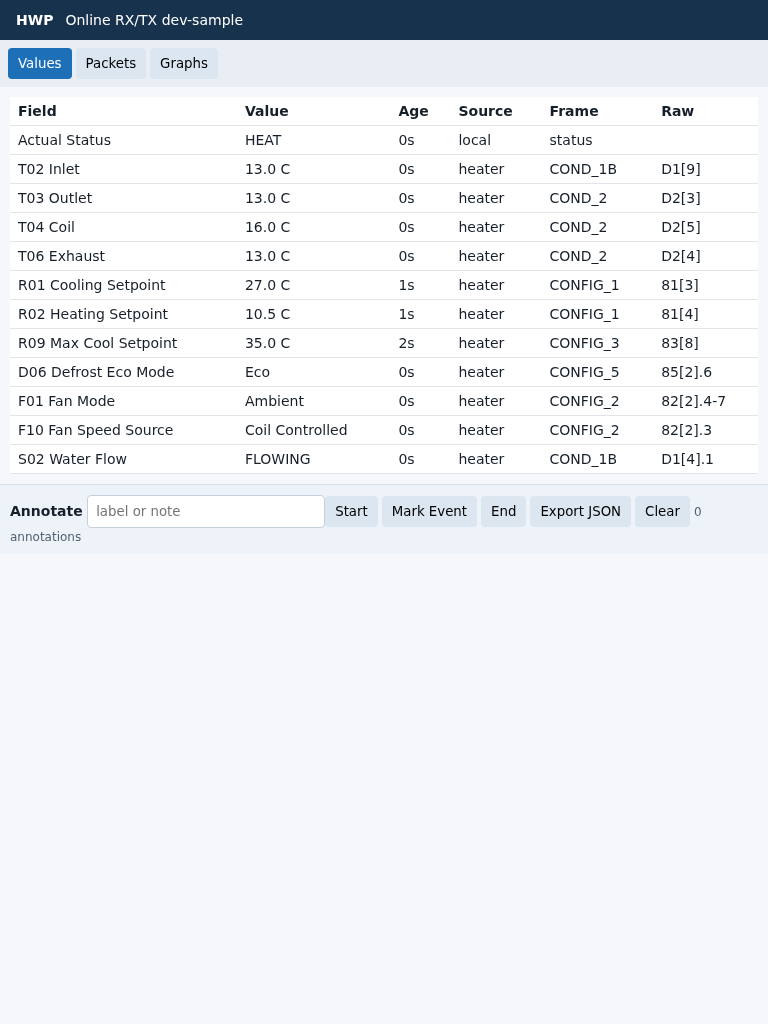
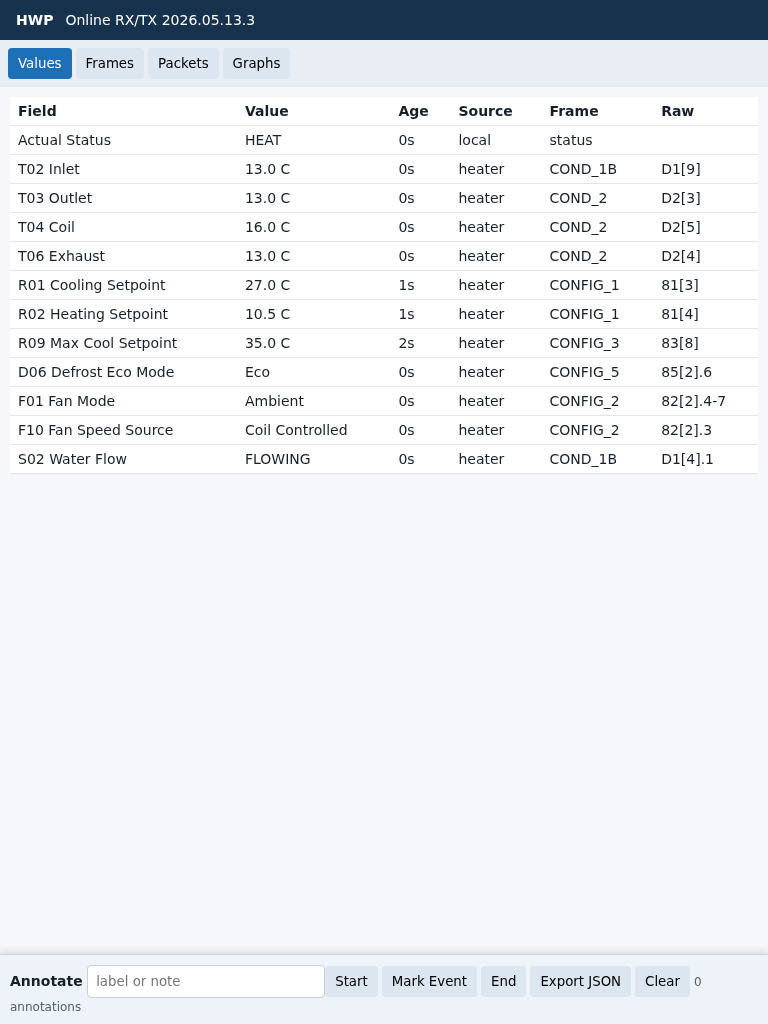
Keep HWP web frame snapshots on device

diff --git a/components/hwp/hwp_web_dashboard.cpp b/components/hwp/hwp_web_dashboard.cpp
@@ -39,22 +39,24 @@ namespace {
 const char HWP_WEB_INDEX[] =
     "<!doctype html><html><head><meta charset=utf-8><meta name=viewport "
     "content='width=device-width,initial-scale=1'><title>HWP</title><style>"
-    "body{margin:0;font:14px system-ui;background:#f5f7fa;color:#17202a}"
+    "body{margin:0 0 76px;font:14px system-ui;background:#f5f7fa;color:#17202a}"
     "header{padding:12px 16px;background:#17324d;color:white;display:flex;gap:12px;align-items:center}"
     "button{border:0;background:#dce6f1;padding:8px 10px;margin:0 4px 0 0;border-radius:4px}"
     "input{padding:8px;border:1px solid #c5d0dc;border-radius:4px;min-width:220px}"
     "button.active{background:#1d6fb8;color:white}.view{display:none;padding:10px}.view.active{display:block}"
     "table{border-collapse:collapse;width:100%;background:white}th,td{padding:6px 8px;border-bottom:1px solid #e1e5ea;text-align:left}"
     "tr.changed,span.changed{background:#fff2a8}.bad{color:#a40000;font-weight:700}.packet{font-family:ui-monospace,monospace;margin:6px 0;padding:8px;background:white;border-left:4px solid #8aa4bd;overflow:auto}"
+    ".annotate{position:fixed;left:0;right:0;bottom:0;z-index:20;padding:10px;background:#edf3f8;border-top:1px solid #c6d4e1;box-shadow:0 -2px 8px #0002}"
     ".meta{font-size:12px;color:#52616f}canvas{background:white;width:100%;height:220px;border:1px solid #d8dee6;margin:8px 0}"
     "</style></head><body><header><strong>HWP</strong><span id=meta></span></header>"
-    "<nav style='padding:8px;background:#e9eef4'><button data-tab=values class=active>Values</button><button data-tab=packets>Packets</button><button data-tab=graphs>Graphs</button></nav>"
+    "<nav style='padding:8px;background:#e9eef4'><button data-tab=values class=active>Values</button><button data-tab=frames>Frames</button><button data-tab=packets>Packets</button><button data-tab=graphs>Graphs</button></nav>"
     "<section id=values class='view active'><table><thead><tr><th>Field</th><th>Value</th><th>Age</th><th>Source</th><th>Frame</th><th>Raw</th></tr></thead><tbody id=valueRows></tbody></table></section>"
+    "<section id=frames class=view><div class=meta>Latest packet seen for each frame/source/length, including unknown frames.</div><div id=frameRows></div></section>"
     "<section id=packets class=view><div id=packetRows></div></section>"
     "<section id=graphs class=view><canvas id=g1 width=900 height=220></canvas><canvas id=g2 width=900 height=220></canvas><canvas id=g3 width=900 height=220></canvas></section>"
-    "<section style='padding:10px;background:#edf3f8;border-top:1px solid #d8dee6'><strong>Annotate</strong> <input id=annNote placeholder='label or note'><button id=annStart>Start</button><button id=annEvent>Mark Event</button><button id=annEnd>End</button><button id=annExport>Export JSON</button><button id=annClear>Clear</button><span id=annCount class=meta></span></section>"
+    "<section class=annotate><strong>Annotate</strong> <input id=annNote placeholder='label or note'><button id=annStart>Start</button><button id=annEvent>Mark Event</button><button id=annEnd>End</button><button id=annExport>Export JSON</button><button id=annClear>Clear</button><span id=annCount class=meta></span></section>"
     "<script>"
-    "const ANN_KEY='hwp.web.annotations.v1';let state={fields:[],packets:[],graphs:{},meta:{}};let changed={};let tab='values';"
+    "const ANN_KEY='hwp.web.annotations.v1';let state={fields:[],frames:[],packets:[],graphs:{},meta:{}};let changed={};let tab='values';"
     "function anns(){try{return JSON.parse(localStorage.getItem(ANN_KEY)||'[]')}catch(e){return[]}}"
     "function saveAnns(a){localStorage.setItem(ANN_KEY,JSON.stringify(a));annCount.textContent=a.length+' annotations'}"
     "function latestPacket(){return state.packets.length?state.packets[state.packets.length-1]:null}"
@@ -64,7 +66,8 @@ const char HWP_WEB_INDEX[] =
     "annStart.onclick=()=>addAnn('start');annEvent.onclick=()=>addAnn('event');annEnd.onclick=()=>addAnn('end');annClear.onclick=()=>{if(confirm('Clear local HWP annotations?'))saveAnns([])};"
     "annExport.onclick=()=>{let data=JSON.stringify({schema:'hwp-web-annotations-v1',exported_at:new Date().toISOString(),annotations:anns()},null,2);let u=URL.createObjectURL(new Blob([data],{type:'application/json'}));let a=document.createElement('a');a.href=u;a.download='hwp-web-annotations.json';a.click();URL.revokeObjectURL(u)};"
     "function age(ms){if(!ms)return'';let base=state.meta.uptime_ms||0;let s=Math.max(0,Math.floor((base-ms)/1000));return s<60?s+'s':Math.floor(s/60)+'m '+String(s%60).padStart(2,'0')+'s'}"
-    "function render(){document.getElementById('meta').textContent=`${state.meta.status||''} ${state.meta.bus_mode||''} ${state.meta.revision||''}`;let now=Date.now();valueRows.innerHTML=state.fields.map(f=>`<tr class='${changed[f.id]>now?'changed':''}'><td>${f.label}</td><td>${f.value} ${f.unit||''}</td><td>${age(f.seen_ms)}</td><td>${f.source}</td><td>${f.frame}</td><td>${f.raw}</td></tr>`).join('');packetRows.innerHTML=state.packets.slice().reverse().map(p=>`<div class=packet><div class=meta>${p.kind} ${p.frame} ${p.label} ${p.source} ${p.checksum_valid?'ok':'<span class=bad>bad checksum</span>'}</div>[${p.bytes.map((b,i)=>`<span class='${p.changed_bytes[i]?'changed':''}'>${b.toString(16).padStart(2,'0').toUpperCase()}</span>`).join(' ')}]</div>`).join('');drawGraphs()}"
+    "function packetHtml(p){return`<div class=packet><div class=meta>#${p.sequence} ${age(p.seen_ms)} ${p.kind} ${p.frame} ${p.label} ${p.source} ${p.length}b ${p.checksum_valid?'ok':'<span class=bad>bad checksum</span>'}</div>[${p.bytes.map((b,i)=>`<span class='${p.changed_bytes[i]?'changed':''}'>${b.toString(16).padStart(2,'0').toUpperCase()}</span>`).join(' ')}]</div>`}"
+    "function render(){document.getElementById('meta').textContent=`${state.meta.status||''} ${state.meta.bus_mode||''} ${state.meta.revision||''}`;let now=Date.now();valueRows.innerHTML=state.fields.map(f=>`<tr class='${changed[f.id]>now?'changed':''}'><td>${f.label}</td><td>${f.value} ${f.unit||''}</td><td>${age(f.seen_ms)}</td><td>${f.source}</td><td>${f.frame}</td><td>${f.raw}</td></tr>`).join('');frameRows.innerHTML=(state.frames||[]).slice().reverse().map(packetHtml).join('');packetRows.innerHTML=state.packets.slice().reverse().map(packetHtml).join('');drawGraphs()}"
     "function drawOne(id,names){let c=document.getElementById(id),x=c.getContext('2d');x.clearRect(0,0,c.width,c.height);let series=names.map(n=>({n,p:state.graphs[n]||[]})).filter(s=>s.p.length);if(!series.length)return;let vals=series.flatMap(s=>s.p.map(p=>p.value));let lo=Math.min(...vals),hi=Math.max(...vals);if(lo===hi){lo-=1;hi+=1}let colors=['#1d6fb8','#c45f1a','#2e7d32','#7b1fa2','#a00030','#00838f','#6d4c41'];series.forEach((s,si)=>{x.strokeStyle=colors[si%colors.length];x.beginPath();s.p.forEach((p,i)=>{let px=40+i*Math.max(1,(c.width-260)/Math.max(1,s.p.length-1));let py=190-(p.value-lo)*(160/(hi-lo));if(i)x.lineTo(px,py);else x.moveTo(px,py)});x.stroke();x.fillStyle=x.strokeStyle;x.fillText(s.n, c.width-200, 24+si*18)});x.fillStyle='#555';x.fillText(lo.toFixed(1),4,194);x.fillText(hi.toFixed(1),4,36)}"
     "function drawGraphs(){drawOne('g1',['t02_inlet','t03_outlet','t04_coil','t06_exhaust','t_aux_cond2']);drawOne('g2',['r01_setpoint_cooling','r02_setpoint_heating','r03_setpoint_auto','r08_min_cool_setpoint','r09_max_cooling_setpoint','r10_min_heating_setpoint','r11_max_heating_setpoint']);drawOne('g3',['r04_return_diff_cooling','r05_shutdown_temp_diff_when_cooling','r06_return_diff_heating','r07_shutdown_diff_heating','d03_defrosting_cycle_time_minutes','d04_max_defrost_time_minutes','d05_min_economy_defrost_time_minutes','f08_fan_low_speed_running_time','f09_fan_stop_low_speed_running_time','f12_min_fan_voltage_pct','f13_max_fan_voltage_pct'])}"
     "let base=location.pathname.replace(/\\/$/,'');"
@@ -160,6 +163,7 @@ void HWPWebDashboard::record_packet(const BaseFrame& frame, const std::string& k
     }
     this->previous_packet_bytes_[key] = record.bytes;
     this->packets_.push_back(record);
+    this->latest_frames_[key] = record;
     this->trim_packets();
     this->dirty_ = true;
 }
@@ -232,6 +236,7 @@ std::string HWPWebDashboard::state_json() const {
     out << "{";
     out << "\"meta\":" << meta_json(this->last_status_, this->last_bus_mode_) << ",";
     out << "\"fields\":" << fields_json() << ",";
+    out << "\"frames\":" << frames_json() << ",";
     out << "\"packets\":" << packets_json() << ",";
     out << "\"graphs\":" << graph_json();
     out << "}";
@@ -267,29 +272,44 @@ std::string HWPWebDashboard::packets_json() const {
     std::ostringstream out;
     out << "[";
     for (size_t i = 0; i < this->packets_.size(); i++) {
-        const auto& packet = this->packets_[i];
         if (i) out << ",";
-        out << "{";
-        out << "\"sequence\":" << packet.sequence << ",";
-        out << "\"seen_ms\":" << packet.seen_ms << ",";
-        append_json_pair(out, "kind", packet.kind);
-        append_json_pair(out, "label", packet.label);
-        append_json_pair(out, "source", packet.source);
-        append_json_pair(out, "frame", packet.frame);
-        out << "\"length\":" << packet.length << ",";
-        out << "\"checksum_valid\":" << bool_json(packet.checksum_valid) << ",";
-        out << "\"changed\":" << bool_json(packet.changed) << ",";
-        out << "\"bytes\":" << bytes_to_json(packet.bytes) << ",";
-        out << "\"changed_bytes\":[";
-        for (size_t j = 0; j < packet.changed_bytes.size(); j++) {
-            if (j) out << ",";
-            out << bool_json(packet.changed_bytes[j]);
-        }
-        out << "]";
-        out << "}";
+        append_packet_json(out, this->packets_[i]);
     }
     out << "]";
     return out.str();
+}
+
+std::string HWPWebDashboard::frames_json() const {
+    std::ostringstream out;
+    out << "[";
+    size_t index = 0;
+    for (const auto& entry : this->latest_frames_) {
+        if (index++) out << ",";
+        append_packet_json(out, entry.second);
+    }
+    out << "]";
+    return out.str();
+}
+
+void HWPWebDashboard::append_packet_json(std::ostringstream& out, const PacketRecord& packet) {
+    out << "{";
+    out << "\"sequence\":" << packet.sequence << ",";
+    out << "\"seen_ms\":" << packet.seen_ms << ",";
+    append_json_pair(out, "kind", packet.kind);
+    append_json_pair(out, "label", packet.label);
+    append_json_pair(out, "source", packet.source);
+    append_json_pair(out, "frame", packet.frame);
+    out << "\"length\":" << packet.length << ",";
+    out << "\"checksum_valid\":" << bool_json(packet.checksum_valid) << ",";
+    out << "\"changed\":" << bool_json(packet.changed) << ",";
+    out << "\"bytes\":" << bytes_to_json(packet.bytes) << ",";
+    out << "\"changed_bytes\":[";
+    for (size_t j = 0; j < packet.changed_bytes.size(); j++) {
+        if (j) out << ",";
+        out << bool_json(packet.changed_bytes[j]);
+    }
+    out << "]";
+    out << "}";
 }
 
 std::string HWPWebDashboard::graph_json() const {

diff --git a/tests/native/hwp/test_web_dashboard.cpp b/tests/native/hwp/test_web_dashboard.cpp
@@ -56,7 +56,9 @@ void test_packet_ring_buffer_and_changed_bytes() {
     dashboard.record_packet(second, "Chg");
 
     assert(dashboard.packet_count() == 1);
+    assert(dashboard.latest_frame_count() == 1);
     const auto json = dashboard.state_json();
+    assert_contains(json, "\"frames\":[");
     assert_contains(json, "\"kind\":\"Chg\"");
     assert_contains(json, "\"checksum_valid\":true");
     assert_contains(json, "\"changed_bytes\":[false,false,false,true");
@@ -86,9 +88,12 @@ void test_field_snapshot_and_graph_trim() {
 void test_index_html_contains_annotation_helper() {
     const std::string html = hwp::HWPWebDashboard::index_html();
     assert_contains(html, "Values");
+    assert_contains(html, "Frames");
     assert_contains(html, "Packets");
     assert_contains(html, "Graphs");
     assert_contains(html, "Annotate");
+    assert_contains(html, "class=annotate");
+    assert_contains(html, "position:fixed");
     assert_contains(html, "Start");
     assert_contains(html, "Mark Event");
     assert_contains(html, "Export JSON");

diff --git a/components/hwp/hwp_web_dashboard.h b/components/hwp/hwp_web_dashboard.h
@@ -89,6 +89,7 @@ class HWPWebDashboard {
 
     std::string state_json() const;
     size_t packet_count() const { return this->packets_.size(); }
+    size_t latest_frame_count() const { return this->latest_frames_.size(); }
     size_t graph_point_count(const std::string& field_id) const;
     static const char* index_html();
     static std::string escape_json(const std::string& value);
@@ -117,6 +118,7 @@ class HWPWebDashboard {
     HWPWebConfig config_{};
     std::vector<PacketRecord> packets_{};
     std::vector<HWPWebField> fields_{};
+    std::map<std::string, PacketRecord> latest_frames_{};
     std::map<std::string, std::string> previous_field_values_{};
     std::map<std::string, std::vector<uint8_t>> previous_packet_bytes_{};
     std::map<std::string, std::vector<GraphPoint>> graph_history_{};
@@ -140,6 +142,8 @@ class HWPWebDashboard {
     void append_field(std::vector<HWPWebField>& fields, HWPWebField field);
     void append_graph_point(const HWPWebField& field);
     std::string packets_json() const;
+    std::string frames_json() const;
+    static void append_packet_json(std::ostringstream& out, const PacketRecord& packet);
     std::string fields_json() const;
     std::string graph_json() const;
     std::string meta_json(const std::string& status, bus_mode_t bus_mode) const;

diff --git a/components/hwp/hwp_version.h b/components/hwp/hwp_version.h
@@ -38,7 +38,7 @@
 namespace esphome {
 namespace hwp {
 
-static constexpr const char* HWP_COMPONENT_VERSION = "2026.05.13.2";
+static constexpr const char* HWP_COMPONENT_VERSION = "2026.05.13.3";
 
 } // namespace hwp
 } // namespace esphome

diff --git a/analysis/README.md b/analysis/README.md
@@ -5,8 +5,9 @@ into a heater-control surface. The quickest field workflow is:
 
 1. Flash a test device with ESPHome `web_server:` and HWP `web_ui.enabled: true`.
 2. Open `http://<device-address>/hwp` from a tablet.
-3. Use **Values** for decoded fields, **Packets** for recent bus traffic, and
-   **Graphs** for trends.
+3. Use **Values** for decoded fields, **Frames** for the latest packet seen for
+   each frame/source/length, **Packets** for recent bus traffic, and **Graphs**
+   for trends.
 4. Use the **Annotate** controls to mark the start/end of a menu action or an
    observed event.
 5. Export the browser-local JSON annotations after the field session, then
@@ -67,7 +68,8 @@ help gather evidence for those items:
 
 - Compare packet changes while navigating read-only technical menus.
 - Warm or cool suspected temperature sensors gently by hand or with an ice pack,
-  then watch the Values, Packets, and Graphs tabs for correlated changes.
+  then watch the Values, Frames, Packets, and Graphs tabs for correlated
+  changes.
 - Change safe writable menu values one at a time and capture command/echo
   windows with **Start** and **End** annotations.
 - Observe pump, flow, defrost, and idle/running transitions only when the system

diff --git a/docs/handover.md b/docs/handover.md
@@ -36,8 +36,8 @@ climate:
       enabled: true
 ```
 
-  The default path is `/hwp`; `/hwp/state.json` returns the latest decoded fields, packet buffer, graph samples, revision, bus mode, and status; `/hwp/events` streams SSE updates. It is a tablet-friendly field-analysis view only, not a heater-control or annotation surface.
-- The firmware web dashboard has a small browser-local **Annotate** helper. It stores `Start`, `End`, and `Mark Event` entries in `localStorage`, exports JSON from the browser, and does not persist data on the ESP32. Keep raw exports local unless a field session produces evidence worth curating into fixtures or notes.
+  The default path is `/hwp`; `/hwp/state.json` returns the latest decoded fields, latest frame snapshots, packet buffer, graph samples, revision, bus mode, and status; `/hwp/events` streams SSE updates. It is a tablet-friendly field-analysis view only, not a heater-control or annotation surface.
+- The firmware web dashboard has **Values**, **Frames**, **Packets**, and **Graphs** tabs. `Frames` is a browser-independent latest-frame snapshot for each frame/source/length, including unknown packets. The browser-local **Annotate** helper is fixed to the bottom of the viewport; it stores `Start`, `End`, and `Mark Event` entries in `localStorage`, exports JSON from the browser, and does not persist data on the ESP32. Keep raw exports local unless a field session produces evidence worth curating into fixtures or notes.
 - Web UI screenshots can be regenerated from a live device with `python -m analysis.hwp_web_capture --base-url http://<device-address>/hwp --out-dir analysis/screenshots --readme-size tablet`. `analysis/screenshots/*` is generated and ignored by default except for the curated README tablet image. The analysis workflow and safety notes live in `analysis/README.md`.
 - Manual annotation windows are parsed by the same CLI. Use `python -m analysis.hwp_analyze annotations --input tmp/hwp/POOL_esphome_logs.log.2024-11-01` and `prove-annotations` for curated tagger windows.
 - The first native C++ seam lives in `components/hwp/protocol_core.*` and covers dependency-light packet helpers plus fan mode, defrost, flow-meter, and heat-pump restriction conversions.

diff --git a/docs/features.md b/docs/features.md
@@ -33,7 +33,7 @@ The tmp merge track is closed. The current hardware-test focus has moved from re
 | TEST-083 | GUI field annotator and packet viewer | Done | Field annotation can run from saved profiles and display parser-backed packet shapes during discovery | `requirements-annotator.txt` supports workstation setup; `python -m analysis.hwp_logs_annotator --setup` creates profiles in `.esphome-config/hwp-tools.json`; packet view uses shared parser, fixtures, and menu metadata |
 | TEST-084 | GUI parsed-field dashboard | Done | Known packet fields render as latest-value dashboard rows and simple rolling trends during field sessions | Tk GUI now has Dashboard, Packets, and Graphs tabs; field decoding is shared/tested in `analysis.hwp_field_dashboard` |
 | TEST-085 | GUI live log controls | Done | Field tool can change API log level, request dump-config refresh, and invoke restart when a restart button exists | Uses native API log resubscription and button command; no generic reboot is attempted without a restart button entity |
-| TEST-086 | Firmware-served HWP web dashboard | Done | ESPHome devices with `web_server:` can serve a tablet-friendly HWP dashboard directly from `/hwp` | Optional `web_ui` config registers authenticated `/hwp`, `/hwp/state.json`, and `/hwp/events`; Values, Packets, and Graphs are read-only field-analysis views |
+| TEST-086 | Firmware-served HWP web dashboard | Done | ESPHome devices with `web_server:` can serve a tablet-friendly HWP dashboard directly from `/hwp` | Optional `web_ui` config registers authenticated `/hwp`, `/hwp/state.json`, and `/hwp/events`; Values, Frames, Packets, and Graphs are read-only field-analysis views |
 | TEST-087 | Firmware web annotation and capture tooling | Done | Tablet field sessions can mark browser-local annotations and regenerate web UI screenshots | `/hwp` annotations export JSON from localStorage; `python -m analysis.hwp_web_capture` captures phone/tablet/desktop screenshots; `analysis/README.md` documents regeneration and generated screenshot policy |
 | TEST-070 | QEMU target test feasibility | Planned | Document install needs and prove one minimal ESP-IDF/ESP32 QEMU test app can run | Devcontainer has Debian `qemu-system-xtensa`, but not ESP-IDF or an ESP32 QEMU machine yet |
 | TEST-080 | ESPHome host-platform feasibility | Blocked | Host compile/run path exists or blocker is documented | Current component is ESP32/RMT-bound |